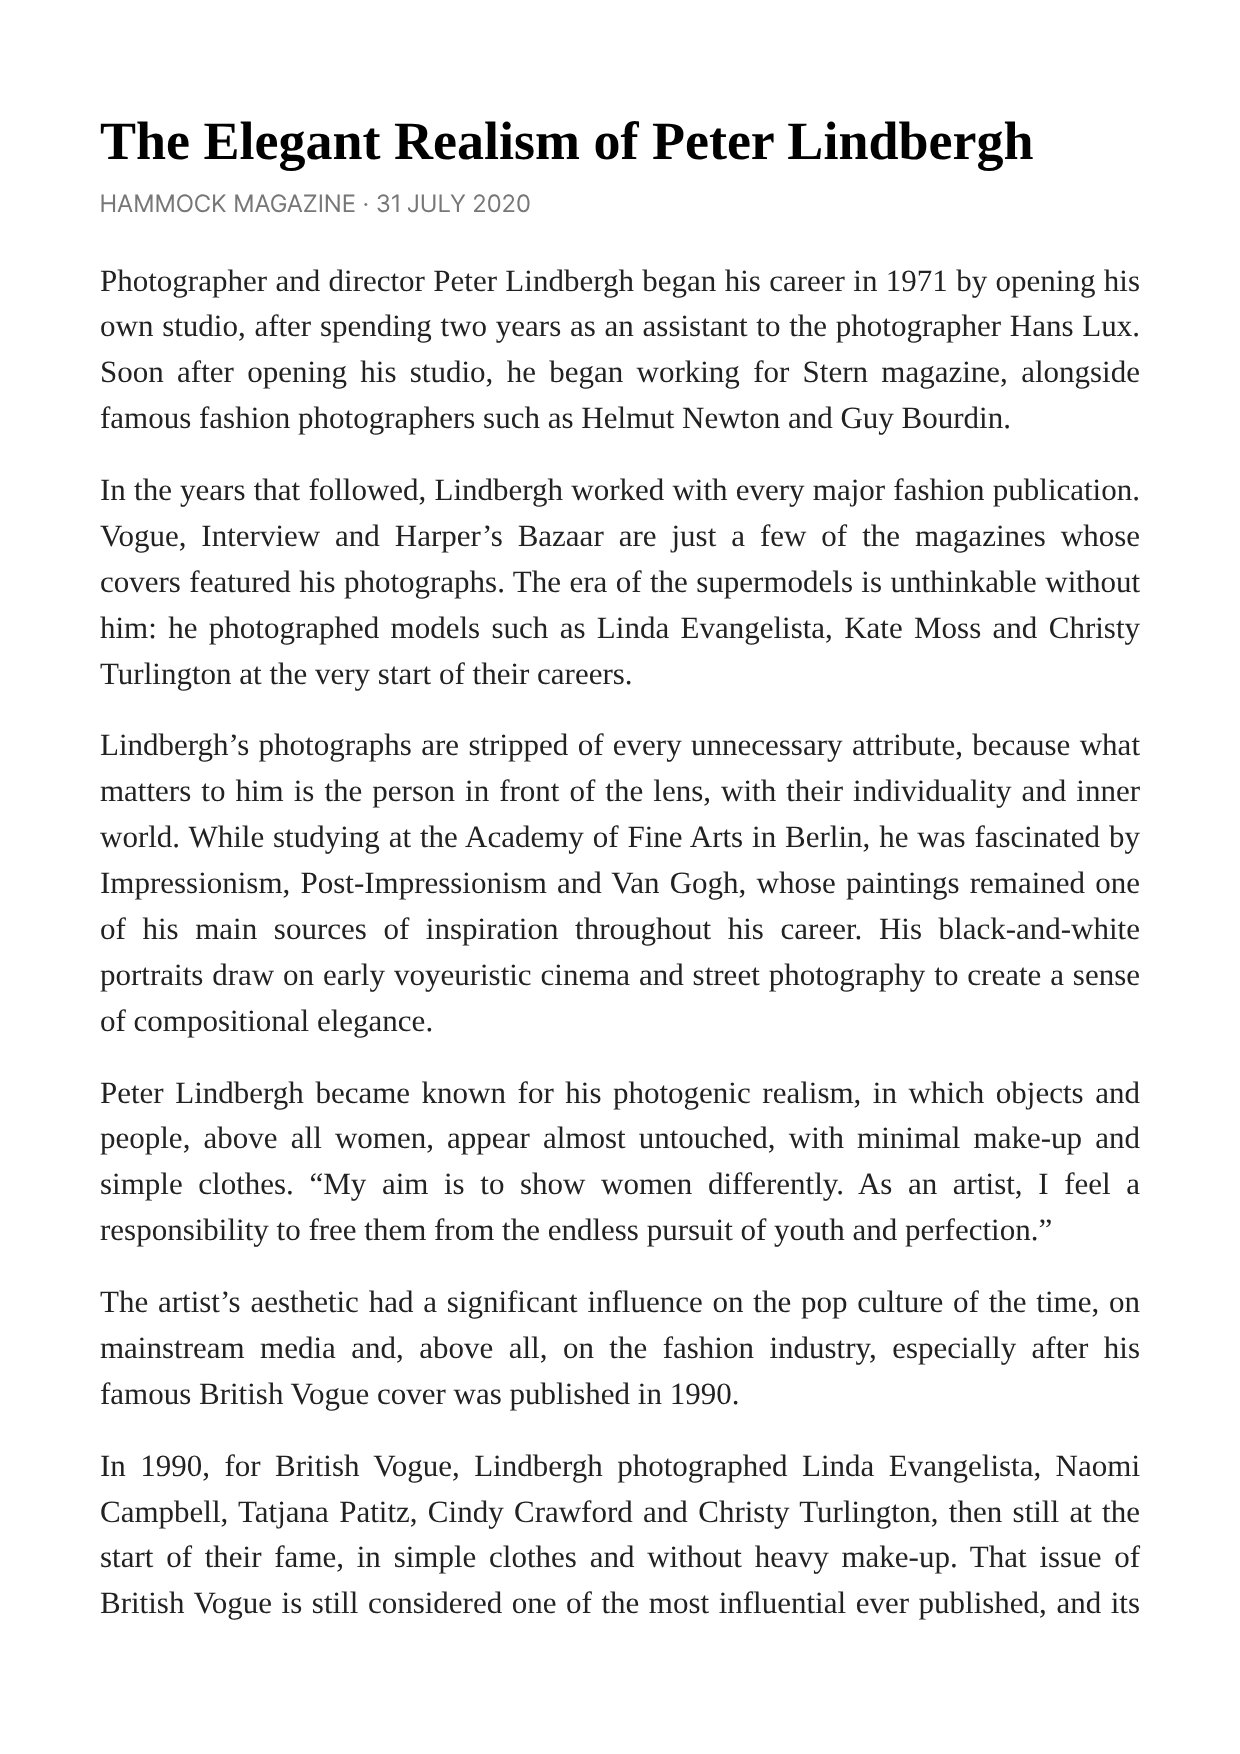
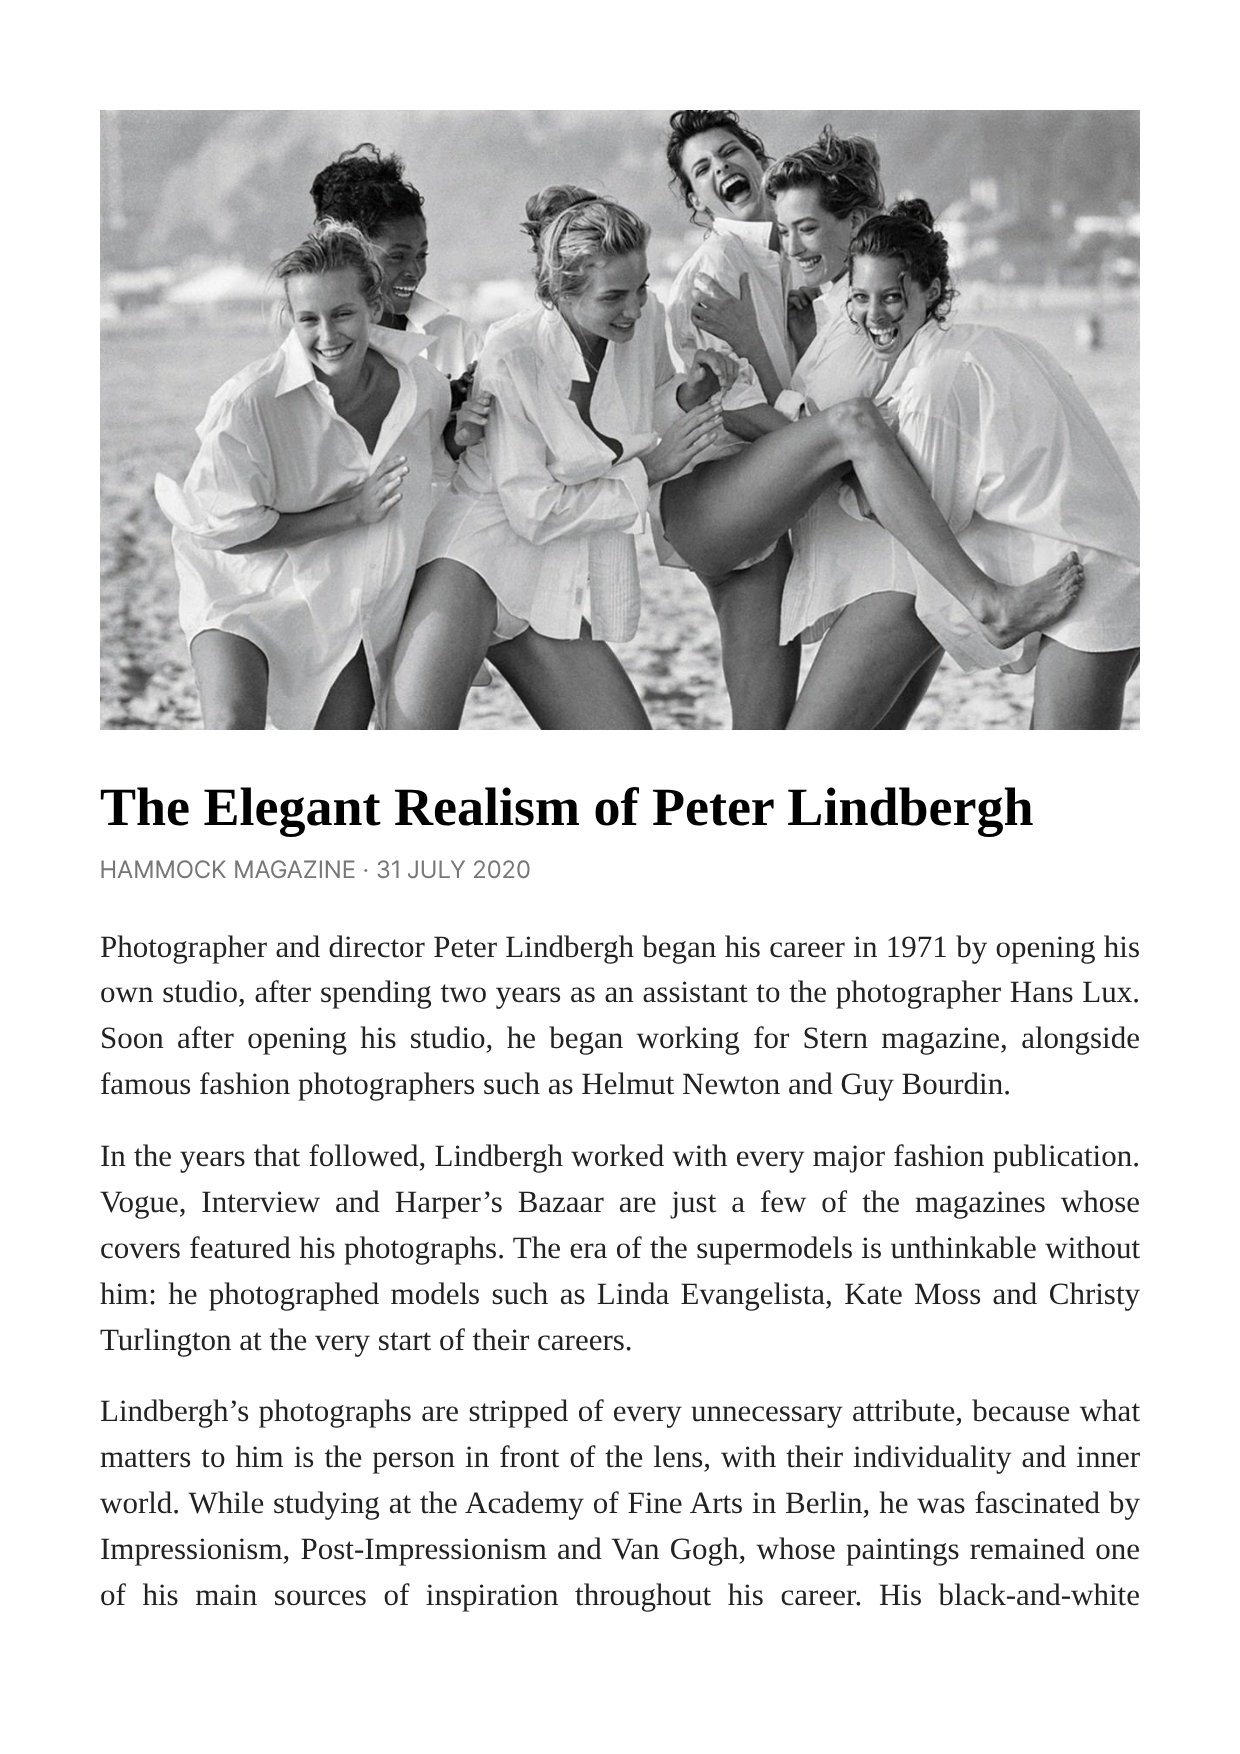
Peter Lindbergh article: add four photographs
Claude-Session: https://claude.ai/code/session_01BHxjzkN2JnKCL3Q4RUhGs4

diff --git a/content.js b/content.js
@@ -65,7 +65,7 @@ window.SITE = {
     {"id": "vivienne-westwood", "h": "Vivienne Westwood — No-Man's Land: Against Climate Change", "cover": "images/mag/vivienne-westwood/cover.jpg", "pages": ["images/mag/vivienne-westwood/page-01.jpg", "images/mag/vivienne-westwood/page-02.jpg"], "cat": "fashion"},
     {"id": "sergei-parajanov", "h": "Sergei Parajanov — Shadows of Forgotten Ancestors", "cover": "images/mag/sergei-parajanov/cover.jpg", "pages": ["images/mag/sergei-parajanov/page-01.jpg", "images/mag/sergei-parajanov/page-02.jpg"], "cat": "cinema"},
     {"id": "antonioni", "h": "The Cinema of Michelangelo Antonioni", "cover": "images/mag/antonioni/cover.jpg?v=2", "pages": ["images/mag/antonioni/page-01.jpg?v=2", "images/mag/antonioni/page-02.jpg", "images/mag/antonioni/page-03.jpg", "images/mag/antonioni/page-04.jpg"], "cat": "cinema"},
-    {"id": "peter-lindbergh", "h": "The Elegant Realism of Peter Lindbergh", "cover": "images/mag/peter-lindbergh/cover.jpg", "pages": ["images/mag/peter-lindbergh/page-01.jpg", "images/mag/peter-lindbergh/page-02.jpg"], "cat": "photography"},
+    {"id": "peter-lindbergh", "h": "The Elegant Realism of Peter Lindbergh", "cover": "images/mag/peter-lindbergh/cover.jpg", "pages": ["images/mag/peter-lindbergh/page-01.jpg", "images/mag/peter-lindbergh/page-02.jpg", "images/mag/peter-lindbergh/page-03.jpg"], "cat": "photography"},
     {"id": "helmut-newton", "h": "Luxury, Eroticism and Fantasy in the Work of Helmut Newton", "cover": "images/mag/helmut-newton/cover.jpg", "pages": ["images/mag/helmut-newton/page-01.jpg", "images/mag/helmut-newton/page-02.jpg", "images/mag/helmut-newton/page-03.jpg", "images/mag/helmut-newton/page-04.jpg", "images/mag/helmut-newton/page-05.jpg"], "cat": "photography"},
     {"id": "mario-testino", "h": "The Photography of Mario Testino", "cover": "images/mag/mario-testino/cover.jpg", "pages": ["images/mag/mario-testino/page-01.jpg", "images/mag/mario-testino/page-02.jpg"], "cat": "photography"},
     {"id": "glen-luchford", "h": "The Photography of Glen Luchford", "cover": "images/mag/glen-luchford/cover.jpg", "pages": ["images/mag/glen-luchford/page-01.jpg", "images/mag/glen-luchford/page-02.jpg"], "cat": "photography"},
